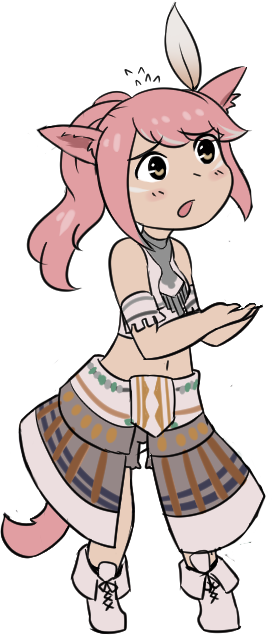
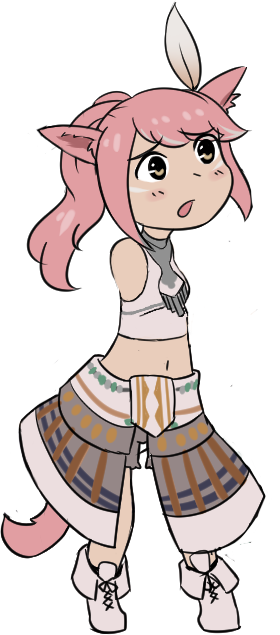
animated leia
animated leia; arms and emote

Changed region(s): [[0.3714, 0.3591, 0.9429, 0.5685], [0.4857, 0.0898, 0.5714, 0.1496], [0.4286, 0.0898, 0.4571, 0.1197]]

diff --git a/styles/styles.css b/styles/styles.css
@@ -1,11 +1,24 @@
 * {
     margin: 0px;
     padding: 0px;
+    
+    
+    
+    -webkit-touch-callout: none; /* iOS Safari */
+    -webkit-user-select: none; /* Safari */
+     -khtml-user-select: none; /* Konqueror HTML */
+       -moz-user-select: none; /* Firefox */
+        -ms-user-select: none; /* Internet Explorer/Edge */
+            user-select: none; /* Non-prefixed version, currently supported by Chrome and Opera */
 }
 
 body {
     background-image: url("../images/ffxiv_sb_background.jpg");
-    background-position: center;
+    min-height: 100%;
+    background-size: cover;
+    background-repeat: no-repeat;
+	background-position: center center;
+    background-attachment: scroll;
 }
 
 /*
@@ -20,7 +33,7 @@ body {
     position: relative;
     width: 100%;
     height: 100%;
-    overflow: hidden;
+    overflow-y: hidden;
 }
 
 
@@ -59,7 +72,7 @@ body {
     z-index: 90;
     transform-origin: 300px 20px;
     animation: mousseyLeft;
-    animation-duration: 0.5s;
+    animation-duration: 0.6s;
     animation-timing-function: ease-in-out;
     animation-iteration-count: infinite;
 }
@@ -82,8 +95,8 @@ body {
 }
 
 #skies {
-    left: 979px;
-    top: 94px;
+    left: 975px;
+    top: 96px;
     z-index: 70;
 }
 
@@ -117,6 +130,36 @@ body {
     z-index: 100;
 }
 
+#leia #emote {
+    top: -10px;
+    animation: leiaEmote;
+    animation-duration: 1.2s;
+    animation-timing-function: ease-in-out;
+    animation-iteration-count: infinite;
+    transform-origin: 150px 100px;
+    z-index: 1;
+}
+
+#leia #forearm {
+    animation: leiaForeArm;
+    animation-duration: 3s;
+    animation-iteration-count: infinite;
+    animation-timing-function: ease-in-out;
+    transform-origin: 125px 250px;
+    z-index: 1;
+}
+
+#leia #backarm {
+    top: -8px;
+    left: -10px;
+    animation: leiaBackArm;
+    animation-duration: 3s;
+    animation-iteration-count: infinite;
+    animation-timing-function: ease-in-out;
+    transform-origin: 175px 250px;
+    z-index: -100;
+}
+
 #ponpon {
     left: 221px;
     top: 395px;
@@ -141,5 +184,24 @@ body {
 @keyframes mousseyLeft {
     0% { transform: rotate(0deg); }
     50% { transform: rotate(5deg); }
+    100% { transform: rotate(0deg); }
+}
+
+@keyframes leiaEmote {
+    0% { transform: translate(0px, 0px) rotate(5deg); }
+    49.9% { transform: translate(2px, -20px) rotate(5deg); }
+    50% { transform: translate(0px, 0px) rotate(-15deg); }
+    100% { transform: translate(-5px, -15px) rotate(-15deg); }
+}
+
+@keyframes leiaForeArm {
+    0% { transform: rotate(20deg); }
+    50% { transform: rotate(25deg); }
+    100% { transform: rotate(20deg); }
+}
+
+@keyframes leiaBackArm {
+    0% { transform: rotate(0deg); }
+    25% { transform: rotate(-20deg); }
     100% { transform: rotate(0deg); }
 }

diff --git a/index.html b/index.html
@@ -10,19 +10,28 @@
     <body>
         <div class="wrapper">
             <div id="container">
-                <img id="mei" src="images/mei_base.png"/>
-                <img id="moussey" src="images/moussey_base.png"/>
-                <img id="syriko" src="images/syriko_base.png"/>
-                <img id="ace" src="images/ace_base.png"/>
-                <img id="daff" src="images/daff_base.png"/>
-                <img id="skies" src="images/skies_base.png"/>
-                <img id="aoi" src="images/aoi_base.png"/>
-                <img id="snake" src="images/snake_base.png"/>
-                <img id="rushi" src="images/rushi_base.png"/>
-                <img id="lodesy" src="images/lodesy_base.png"/>
-                <img id="leia" src="images/leia_base.png"/>
-                <img id="ponpon" src="images/ponpon_base.png"/>
-                <img id="hana" src="images/hana_base.png"/>
+                <img draggable="false" id="mei" src="images/mei_base.png"/>
+                <img draggable="false" id="moussey" src="images/moussey_base.png"/>
+                <div id="syriko">
+                    <img draggable="false" src="images/syriko_base.png"/>
+                </div>
+                <div id="ace">
+                    <img draggable="false" src="images/ace_base.png"/>
+                </div>
+                <img draggable="false" id="daff" src="images/daff_base.png"/>
+                <img draggable="false" id="skies" src="images/skies_base.png"/>
+                <img draggable="false" id="aoi" src="images/aoi_base.png"/>
+                <img draggable="false" id="snake" src="images/snake_base.png"/>
+                <img draggable="false" id="rushi" src="images/rushi_base.png"/>
+                <img draggable="false" id="lodesy" src="images/lodesy_base.png"/>
+                <div id="leia">
+                    <img id="forearm" draggable="false" src="images/leia_forearm.png"/>
+                    <img id="backarm" draggable="false" src="images/leia_backarm.png"/>
+                    <img id="emote" draggable="false" src="images/leia_emote.png"/>
+                    <img id="base" draggable="false" src="images/leia_base.png"/>
+                </div>
+                <img draggable="false" id="ponpon" src="images/ponpon_base.png"/>
+                <img draggable="false" id="hana" src="images/hana_base.png"/>
                 <img class="ghost" src="images/base.png"/>
             </div>
         </div>

diff --git a/scripts/script.js b/scripts/script.js
@@ -1,6 +1,10 @@
 
 function init() {
     
+    document.addEventListener("contextmenu", function(evt) {
+       evt.preventDefault(); 
+    });
+    
 }
 
 document.addEventListener('DOMContentLoaded', init, false);
